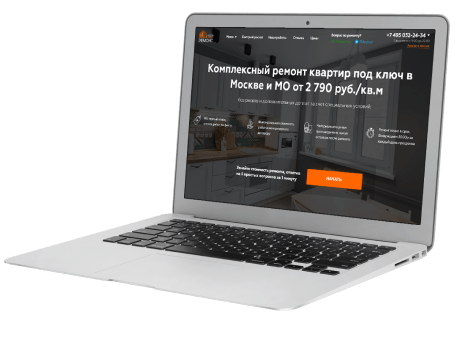
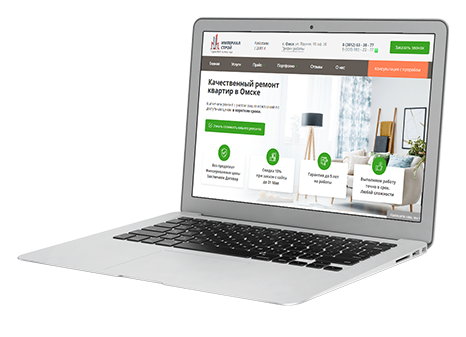
add mokap

diff --git a/index.html b/index.html
@@ -1870,7 +1870,7 @@
 
 												<div class="goto__main-wrap">
 													<div class="goto__main-text">Больше информации<br> о нашей компании<br> и больше выполненных работ смотрите<br> на основном сайте</div>
-													<img src="img/noteboock-new.png" class="img-responsive lazy noteboock" alt="alt">
+													<img src="img/noteboock.png" class="img-responsive lazy noteboock" alt="alt">
 												</div>
 
 												<div class="goto__main-btn--wrap text-center">
